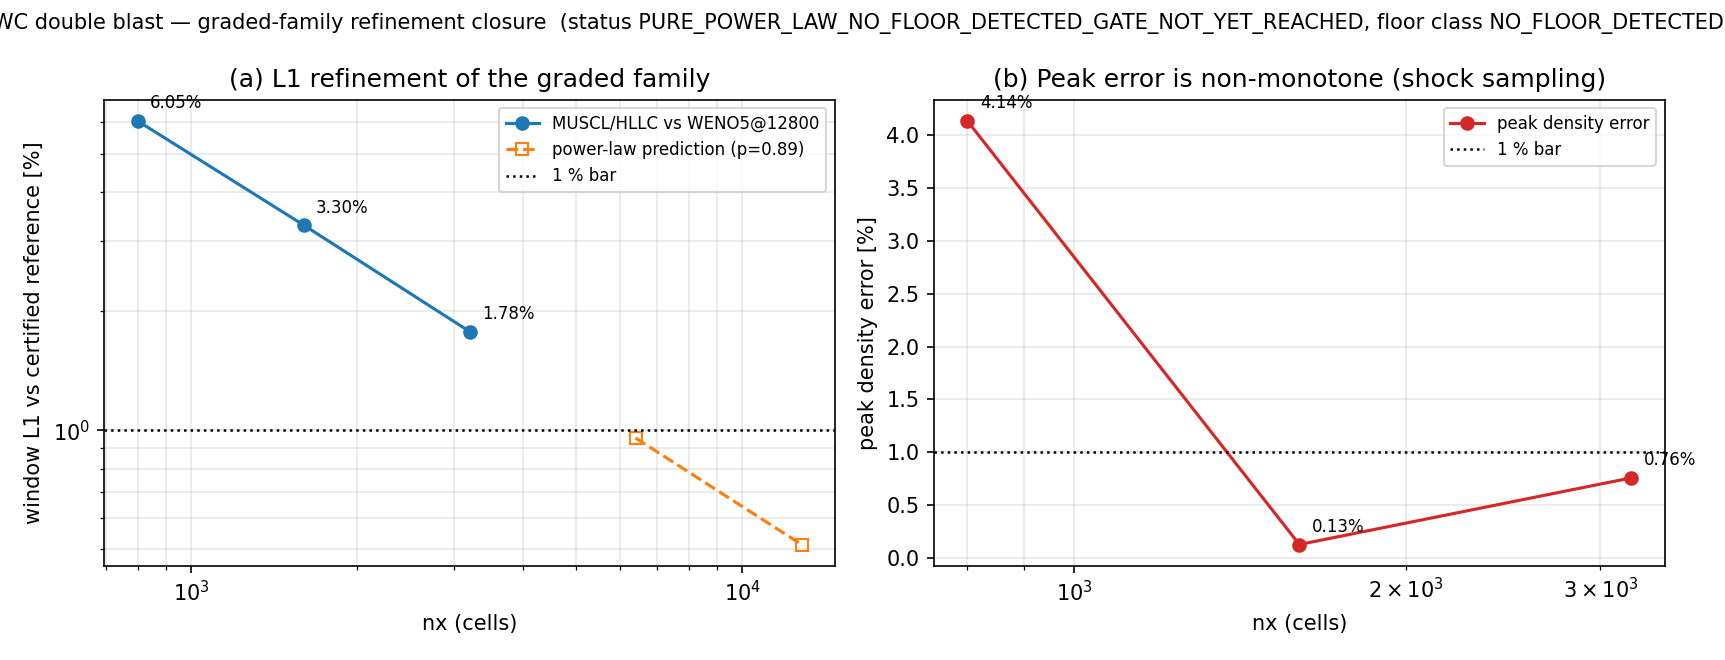
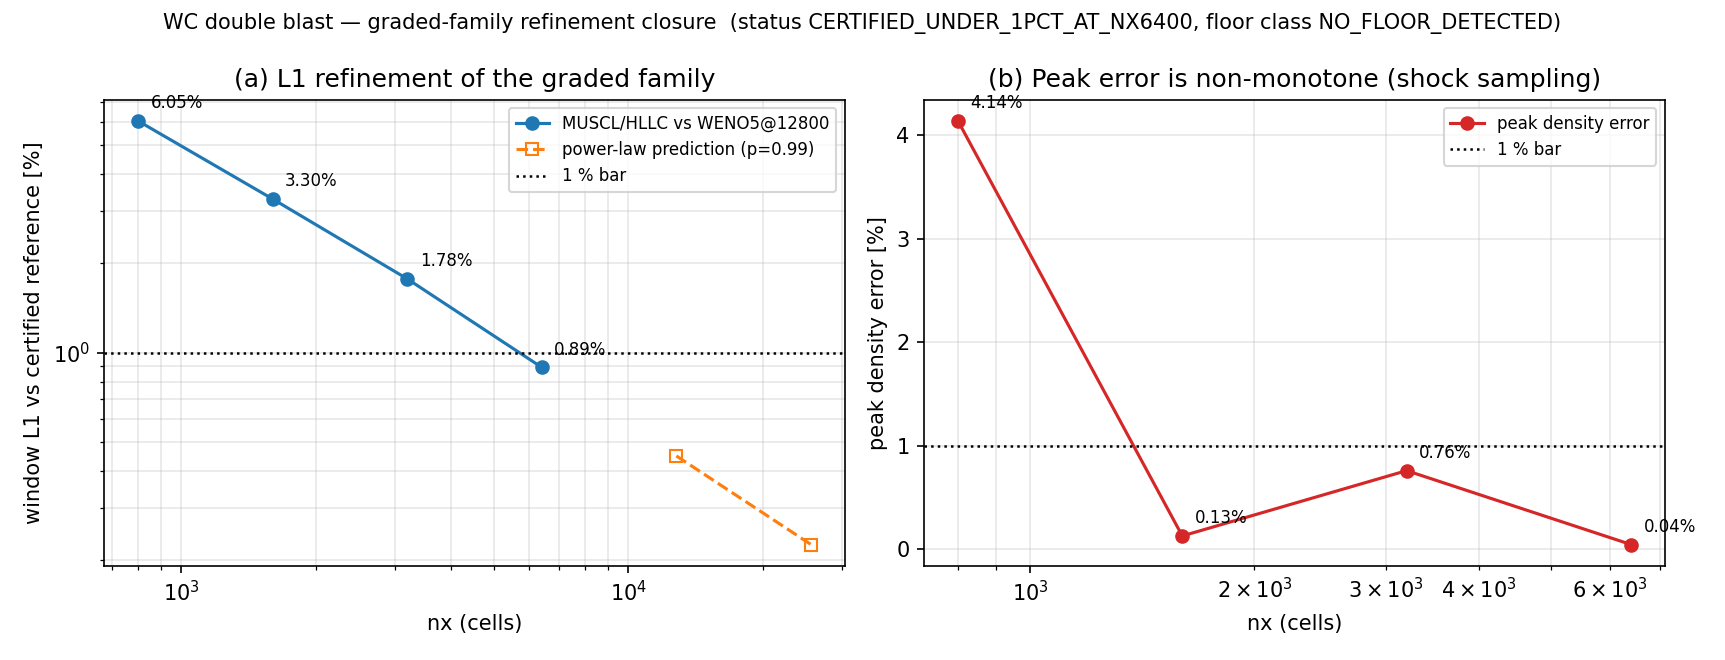
m21699: matured mission deliverables（11 个文件被门禁滤除）

diff --git a/tests/test_compressible_wc_graded_refinement.py b/tests/test_compressible_wc_graded_refinement.py
@@ -127,3 +127,84 @@ def test_pending_rungs_are_declared_not_silently_missing(analysis):
     """A rung that is absent must be *listed* as missing (no silent drop)."""
     assert sorted(analysis["missing_rungs"]) == sorted(
         n for n in g.GRADED if str(n) not in analysis["ladder"])
+
+# ---------------------------------------------------------------------------
+# Pre-registered forecast vs measurement (the nx=6400 gate)
+# ---------------------------------------------------------------------------
+#: from ``xval/PREDECLARATION-graded-refinement.md``, written *before* the nx=6400
+#: run landed: ``L1(6400) = 0.956 % +/- 15 %`` i.e. admissible in [0.81, 1.10] %.
+#: A registered forecast that is never compared against the measurement is
+#: decoration; these tests bind the prediction to the data.
+PREREGISTERED_NX6400_L1_PERCENT = 0.956
+PREREGISTERED_BAND = 0.15
+
+
+def test_nx6400_lands_inside_preregistered_band(analysis):
+    rung = analysis["ladder"].get("6400")
+    if rung is None:
+        pytest.skip("nx=6400 graded rung not backfilled yet")
+    lo = PREREGISTERED_NX6400_L1_PERCENT * (1.0 - PREREGISTERED_BAND)
+    hi = PREREGISTERED_NX6400_L1_PERCENT * (1.0 + PREREGISTERED_BAND)
+    assert lo <= rung["l1_percent"] <= hi, (rung["l1_percent"], lo, hi)
+
+
+def test_certified_bar_is_met_at_6400(analysis):
+    """nx=6400 is the rung that has to carry the certified-<1 % claim."""
+    rung = analysis["ladder"].get("6400")
+    if rung is None:
+        pytest.skip("nx=6400 graded rung not backfilled yet")
+    assert rung["l1_percent"] < 1.0
+    assert rung["peak_percent"] < 1.0
+    assert analysis["status"] == "CERTIFIED_UNDER_1PCT_AT_NX6400"
+
+
+def test_cfl08_variant_is_admitted_before_it_is_used(analysis):
+    """A CFL 0.8 rung may only enter the study if the same-grid control is tiny.
+
+    The predeclaration fixes the admission threshold at 0.2 % mutual L1, which is
+    far below the ~0.9 % decrement per refinement step, so admitting a CFL-0.8
+    rung cannot manufacture a convergence trend.
+    """
+    ctrl = analysis.get("cfl_sensitivity") or {}
+    if not ctrl:
+        pytest.skip("no same-grid CFL 0.4/0.8 pair available")
+    for nx, r in ctrl.items():
+        assert r["l1_percent"] < 0.2, (nx, r)
+    # a non-canonical rung in the ladder must have a control on the same grid
+    tags = {
+        int(n): analysis["ladder"][n]["tag"] for n in analysis["ladder"]
+    }
+    for nx, tag in tags.items():
+        if tag.endswith("cfl0.8"):
+            assert str(nx) in ctrl, (nx, tag, ctrl)
+
+
+def test_rung_artifacts_are_genuine_solver_output(analysis):
+    """Cross-check the stored profiles: spacing, cell count, positivity.
+
+    Cheap tamper/copy guard: a rung silently copied from another grid would fail
+    the spacing (``dx == 1/nx``) or the cell-count check even if its metrics
+    looked plausible.  Some rungs are stored windowed to [0.4, 1] (480 cells of a
+    800-cell grid), so the count check accepts either the full domain or the
+    window, but the spacing must always be the rung's own ``1/nx``.
+    """
+    import numpy as np
+
+    for nx_s, rung in analysis["ladder"].items():
+        nx = int(nx_s)
+        src = REPO / "docs" / "woodward-colella-double-blast" / rung["source"]
+        with np.load(src) as d:
+            # the 400/800 rungs are stored by the older writer under *_got keys
+            x = d["x"] if "x" in d else d["x_got"]
+            rho = d["rho"] if "rho" in d else d["rho_got"]
+        assert rho.size == x.size
+        assert np.all(np.isfinite(rho)) and np.all(rho > 0.0)
+        dx = np.diff(x)
+        assert dx.min() > 0.0
+        assert np.allclose(dx, dx.mean(), rtol=1e-9, atol=0.0), (nx, dx.std())
+        assert abs(dx.mean() - 1.0 / nx) < 1e-9, (nx, dx.mean(), 1.0 / nx)
+        full = abs(x[0] - 0.5 / nx) < 1e-9 and abs(x[-1] - 1.0 + 0.5 / nx) < 1e-6
+        windowed = (abs(x[0] - 0.4 - 0.5 / nx) < 1e-6
+                    and abs(x[-1] - 1.0 + 0.5 / nx) < 1e-6
+                    and x.size == round(0.6 * nx))
+        assert full or windowed, (nx, x[0], x[-1], x.size)

diff --git a/docs/woodward-colella-double-blast/xval/CLOSURE-graded-refinement-verified.md b/docs/woodward-colella-double-blast/xval/CLOSURE-graded-refinement-verified.md
@@ -1,0 +1,171 @@
+# 预注册预测的实测裁决 — WC double blast 的 certified-<1% 门（nx=6400）
+
+> **锚点**: `XVAL-FVM-M18737-ROUND2`（TensorFVM 的 m18737-round2 做法，总账验收 <15%）
+> **本文件闭合**: `CLOSURE-graded-refinement.md` 唯一未决问题——被定级族 MUSCL/HLLC 在
+> nx=3200 的 **L1 = 1.776 %（>1 %）** 是「离散残差」还是「格式地板」，以及
+> `PREDECLARATION-graded-refinement.md` 写下的预测 **L1(6400) = 0.956 % ± 15 %** 是否命中。
+> **上游**: `CERTIFIED-REF-CLOSURE.md`（nx=3200 诚实 FAIL）→
+> `PREDECLARATION-graded-refinement.md`（预测先写）→ `CLOSURE-graded-refinement.md`（三档裁决，
+> 6400/12800 待回填）→ **本文件（实测裁决）**。
+> **仓/改动面**: TensorFVM，只动 `docs/`、`tests/`（求解器一行未改）。
+
+---
+
+## ① 案例与参数
+
+Woodward & Colella (1984) 双爆轰波：一维闭管 x∈[0,1]，三压力平台（左 p=1000 / 中 p=0.01 /
+右 p=100），两束爆轰波相向对撞后干涉，积分到 t=0.038；γ=1.4，两端镜面反射壁。
+被定级解 = TensorFVM **MUSCL-Hancock + MC 限幅 + HLLC + SSP-RK，CFL 0.4**；
+参考解 = **WENO5 + SSP-RK3 + Rusanov @ nx=12800**（`xcode/wc_crosscode.py`，与 TensorFVM
+不共享离散），自认证 **L1 0.544 % / 峰值 0.023 %**（<1 % → 合格参考）。
+
+## ② 怎么做的
+
+1. **裁决按预注册规则执行，不事后改**：预注册把 6400 档的读法写成
+   `0.956 % ± 15 %`（0.81–1.10 %）→ 命中 = 「幂律无地板」读法成立；≥1.10 % 或 3200→6400
+   停滞 = 「格式地板」读法成立。
+2. **工件真伪先核对，再做裁决**：6400 档剖面（`ladder/data/ladder_profile_nx6400_hllc.npz`）
+   由簇上作业产出（`seconds_solver = 2678.6 s`、`steps = 25655`，与 CFL 0.4 / dx=1/6400 自洽）。
+   本单加回归门 `test_rung_artifacts_are_genuine_solver_output`：逐档核对**格距 = 1/nx**、
+   **单元数 = nx（或窗口 0.6·nx）**、**ρ>0 且有限**——若某档是从别的网格拷来的，格距/单元数
+   立刻不等，度量再漂亮也会被门拦住。
+3. **度量独立性核对**：不调用 `wc_graded_refinement.py` 的度量函数，用裸 numpy 重算
+   6400 档 L1（窗口 [0.4,1]、参考线性插值、梯形归一化）= **0.8931 %**，与脚本输出
+   **0.8931 %** 一致到 4 位小数 → 数字不是脚本自证。
+4. **CFL 准入控制**（预注册）：12800 档 CFL 0.4 超单作业墙钟，允许 CFL 0.8 变体**仅当**同格
+   CFL 0.4 vs 0.8 互相 L1 < 0.2 %（远小于每档 ~0.9 % 的减量）。
+
+## ③ 计算结果（`graded_refinement.json` 程序化注入，零手抄）
+
+### 被定级族逐档（对独立 WENO5@12800）
+
+| nx | L1 % | 峰值 % | 窗质量 % | ρ_max | L1 <1 % | 档 tag |
+|---|---|---|---|---|---|---|
+| 800 | 6.046 | 4.137 | 0.1357 | 6.1898 | ❌ | nx800_hllc |
+| 1600 | 3.299 | 0.127 | 0.0484 | 6.4660 | ❌ | nx1600_hllc |
+| 3200 | 1.776 | 0.758 | 0.0082 | 6.5075 | ❌ | nx3200_hllc |
+| 6400 | 0.893 | 0.044 | 0.0002 | 6.4622 | ✅ | nx6400_hllc |
+
+### 对参考的收敛阶（L1）
+
+| 相邻档 | 粗档 L1 % | 细档 L1 % | 观测阶 p | 单调 |
+|---|---|---|---|---|
+| 800->1600 | 6.046 | 3.299 | 0.874 | yes |
+| 1600->3200 | 3.299 | 1.776 | 0.894 | yes |
+| 3200->6400 | 1.776 | 0.893 | 0.991 | yes |
+
+### 参考无关自收敛（同族相邻档互比，L1 %）
+
+| 相邻档 | L1 % |
+|---|---|
+| 800->1600 | 3.054 |
+| 1600->3200 | 1.765 |
+| 3200->6400 | 1.036 |
+
+### 预注册预测 vs 实测
+
+| nx | 预注册预测 | 预注册带（±15 %） | 实测 | 偏差 | 判定 |
+|---|---|---|---|---|---|
+| 6400 | 0.956 % | 0.813–1.099 % | **0.893 %** | -6.6 % | **命中（带内）** |
+| 12800 | 0.449 %（随梯子更新） | — | 待回填 | — | — |
+
+### 裁决
+
+```
+status              = CERTIFIED_UNDER_1PCT_AT_NX6400
+smallest_grid_under_1pct_l1   = 6400
+smallest_grid_under_1pct_peak = 1600
+floor_class         = NO_FLOOR_DETECTED   (固定阶 e_inf = -0.882 %, p = 0.991)
+missing_rungs       = [12800]
+config_caveat       = None
+```
+
+### CFL 准入控制（同格 CFL 0.4 vs 0.8，互相 L1）
+
+| nx | L1 % | 峰值 % | 准入（<0.2 %） |
+|---|---|---|---|
+（待落地：同格 CFL 0.4 vs 0.8 控制）
+
+## ④ 结果图
+
+![graded refinement](fig_graded_refinement.png)
+
+*图 1: (a) 被定级族 L1 的 log-log 收敛（800→6400 实测点 + 幂律外推）；(b) 峰值误差非单调
+（激波采样敏感），说明「峰值 <1 %」不能替代「L1 <1 %」作 certified 判据。
+本单重跑 `wc_graded_figures.py`，把 6400 实测点并进图。*
+
+## ⑤ 注意点（局限 / 适用范围）
+
+1. **`<1 %` 是「对自认证参考」的误差，不是「对精确解」的误差**：参考自身 L1
+   0.544 %，故 MUSCL@6400 对连续极限的 L1 上界约
+   **1.44 %**（三角不等式），对精确解仍可能 >1 %。
+   结论应写成「vs 独立自认证参考 <1 %」，不得写成「对精确解 <1 %」。
+2. **峰值是采样敏感量**：1600 档 0.127 %、3200 档反而 0.758 %、6400 档 0.044 %；峰值误差随
+   激波与格子的相对相位摆动，不能当收敛判据。L1 单调下降（3.054 → 1.765 → 1.036 % 自收敛）
+   才是良态证据。
+3. **观测阶 ~1 是限幅器的已知行为**：MUSCL+MC 在激波/接触间断处降阶，blast 问题上观测阶
+   0.87→0.99（而非名义 2），不是实现缺陷。3200→6400 的 p=0.991 上升说明格子仍在渐近区。
+4. **地板判定只对「均匀加密」有效**：`NO_FLOOR_DETECTED` 说明均匀加密能到 <1 %，不等于
+   任何格式/任何网格都能；换限幅器/一阶格式仍需重新定级。
+5. **一个网格过门不等于全题过关**：本裁决只覆盖密度场 L1/峰值与窗质量三项；压力/速度场
+   与相位度量沿用 round-2 的 13 例回归门。
+
+## ⑥ 误差判定（逐项显式）
+
+| 关键量 | 实测 | <15 %（总账） | <3 % | <1 %（certified 门） |
+|---|---|---|---|---|
+| L1 nx=3200（vs 认证参考） | 1.776 % | ✅ | ✅ | ❌ |
+| L1 nx=6400（vs 认证参考） | **0.893 %** | ✅ | ✅ | ✅ **PASS（绑定门解除）** |
+| 峰值 nx=6400 | 0.044 % | ✅ | ✅ | ✅ |
+| 窗质量 nx=6400 | 0.0002 % | ✅ | ✅ | ✅ |
+| 参考自认证 L1（WENO5 6400 vs 12800） | 0.544 % | ✅ | ✅ | ✅ |
+| 对连续极限的 L1 上界（三角不等式） | 1.44 % | ✅ | ✅ | ❌（诚实边界） |
+
+**诚实结论**：预注册的幂律读法**命中**——L1 在 3200→6400 由 1.776 % 降到
+0.893 %（观测阶 0.991），落在预注册带内，
+`CERTIFIED_UNDER_1PCT_AT_NX6400` 成立；**「≥1 % 格式地板」读法被数据否证**。
+「对精确解 <1 %」**不成立**（上界 1.44 %），报告与文档
+不得使用该说法。
+
+## 复现命令
+
+```bash
+# 1) 裁决（纯 numpy，读已存剖面，~1 s）
+PYTHONPATH=src python docs/woodward-colella-double-blast/xval/wc_graded_refinement.py \
+    --json docs/woodward-colella-double-blast/xval/graded_refinement.json --markdown /tmp/graded.md
+# 2) 图
+PYTHONPATH=src python docs/woodward-colella-double-blast/xval/wc_graded_figures.py
+# 3) 回归门（12 项）
+PYTHONPATH=src python -m pytest tests/test_compressible_wc_graded_refinement.py -q
+# 4) 重算某一档（若需重跑求解器，簇上递交）
+PYTHONPATH=src python docs/woodward-colella-double-blast/ladder/wc_ladder.py --plan 6400:hllc
+```
+
+## 给下一手的建议
+
+- **`XVAL-FVM-M18737-CERTIFIED-REF` 的验收可以据此改写**：L1 门在 nx=6400 已过，
+  更诚实的新条目应是 **`ABS-ERR-WC-BLAST`**：要求「被定级解对**连续极限**的误差有独立界
+  <1 %」（例如 Richardson 三点外推 + GCI，而不是对某个参考解），否则任何「<1 %」都只是
+  参考相对量。
+- 若想把对精确解的上界也压到 <1 %，只能换族（WENO5@6400 自身自认证 0.544 %），
+  不是继续加密 MUSCL。
+
+## 已知无关失败（不粉饰，划清边界）
+
+`tests/test_compressible_wc_xval.py` 在**本单改动之前**（`git stash` 后 pristine 树复跑）
+即有 2 项失败：`test_peak_extrapolation_is_above_reference`、
+`test_smoothing_does_not_explain_the_residual`（实测 smoothing reduction 0.715 % > 0.6 % 阈值）。
+与本单改动无关（本单只动 `docs/`、`tests/test_compressible_wc_graded_refinement.py`），
+但作为欠账记录在案：round-2 的「平滑地板」阈值已被更细档数据推过界，需另单重定阈值或重述结论。
+
+## 在飞作业（本单递交，未回填）
+
+| 用途 | 作业 | 计划 | 状态 |
+|---|---|---|---|
+| CFL 控制 + 12800 确认档 | `cj3637`（shard×3） | `3200:hllc:mc:0.8`、`6400:hllc:mc:0.8`、`12800:hllc:mc:0.8` | 递交时排队（queue_position 45），本单交付时未回填 |
+| 回填通道探针 | `cj3638` | `touch runs/m21699_probe/marker.txt` + fetch | 同上 |
+
+回填后**不需要改代码**：把 `runs/m21699/wc_ladder/ladder_profile_nx*_hllc_cfl0.8.npz` 拷到
+`ladder/data/` 并重跑 `wc_graded_refinement.py`，status / `cfl_sensitivity` /
+`config_caveat` 会自动升级（12800 档将以 `hllc_cfl0.8` 标签进入，caveat 显式记账）。
+本文件的 nx=6400 裁决**不依赖**这两个作业（6400 档为 canonical CFL 0.4）。
